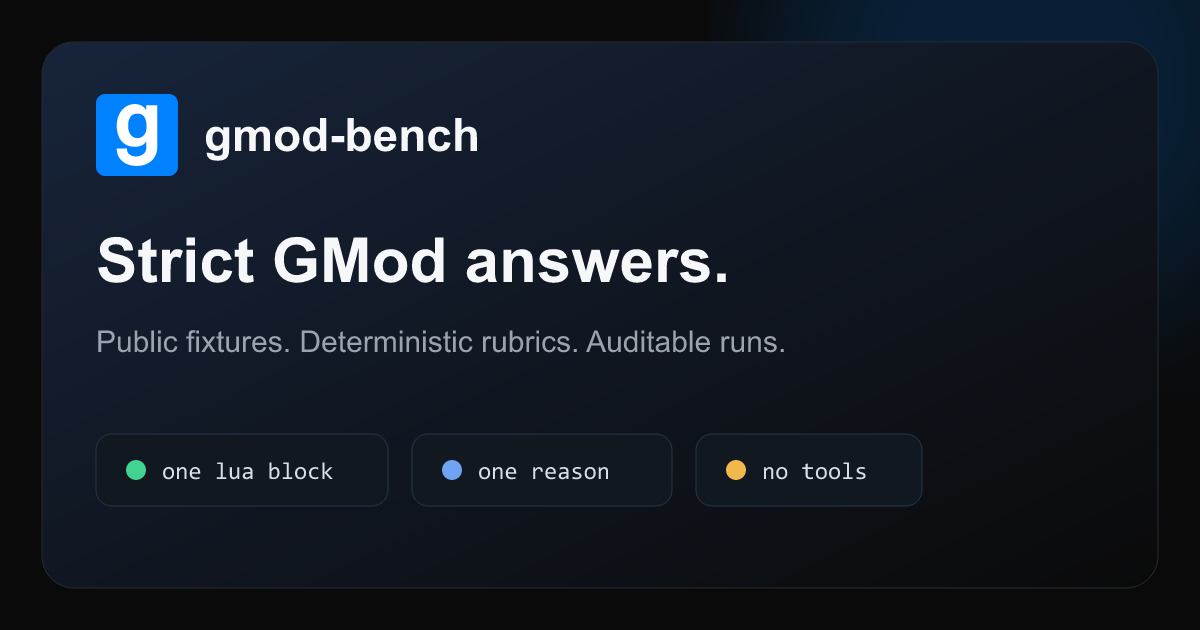
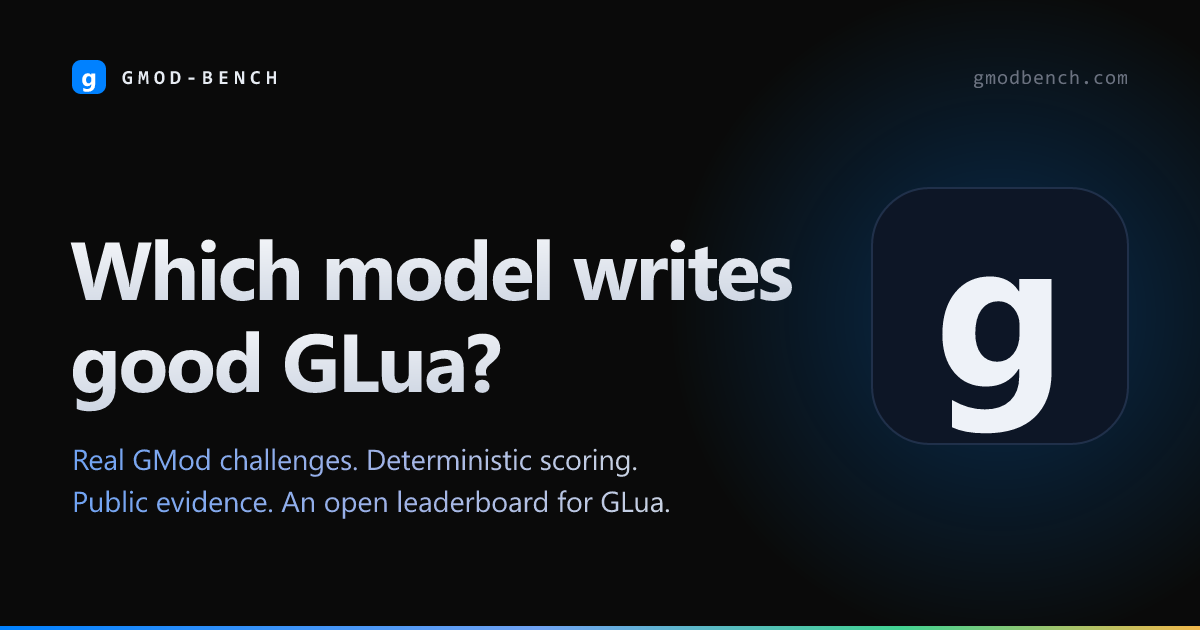
Redesign README hero + OG social card; drop off-brand slogan chips
- New README leaderboard hero (custom SVG -> crisp PNG) replacing the old card
- README: one functional badge row, real star/website CTAs, icons, tightened copy
- Rebuild OG social card in a minimal, mizan-style layout
- Remove the "one lua block / one reason / no tools" marketing chips everywhere

diff --git a/README.md b/README.md
@@ -1,49 +1,40 @@
 <div align="center">
 
-<img src="website/public/gmod-logo.svg" alt="gmod-bench" width="96" height="96" />
-
-# gmod-bench
-
-### Find the best AI models for Garry's Mod development
-
-Open coding challenges · verified scores · public evidence
-
-<br />
-
-[![Website](https://img.shields.io/badge/🌐_Website-gmodbench.com-70a3f3?style=for-the-badge&labelColor=0a0a0a)](https://gmodbench.com)
-[![GitHub stars](https://img.shields.io/github/stars/Iydah/gmod-bench?style=for-the-badge&logo=github&logoColor=white&color=e8b84a&labelColor=0a0a0a)](https://github.com/Iydah/gmod-bench/stargazers)
-[![License: MIT](https://img.shields.io/badge/License-MIT-3ecf8e?style=for-the-badge&labelColor=0a0a0a)](LICENSE)
-[![Bun](https://img.shields.io/badge/Runtime-Bun-fbf0df?style=for-the-badge&logo=bun&logoColor=000&labelColor=0a0a0a)](https://bun.sh)
-[![TypeScript](https://img.shields.io/badge/TypeScript-3178C6?style=for-the-badge&logo=typescript&logoColor=white&labelColor=0a0a0a)](https://www.typescriptlang.org/)
-
-<br />
-
-[![⭐ Star this repo](https://img.shields.io/badge/⭐_Star_this_repo-if_you_ship_GMod-111111?style=for-the-badge&labelColor=e8b84a&color=111111)](https://github.com/Iydah/gmod-bench)
-&nbsp;
-[![Open leaderboard](https://img.shields.io/badge/Open_leaderboard-→-70a3f3?style=for-the-badge&labelColor=0a0a0a)](https://gmodbench.com)
-
-<br />
-
 <a href="https://gmodbench.com">
-  <img src="website/public/social-card.png" alt="gmod-bench — compare AI models for Garry's Mod" width="720" />
+  <img src="website/public/readme-hero.png" alt="gmod-bench — which AI model actually writes good GLua?" width="820" />
 </a>
 
+<h1>gmod-bench</h1>
+
+<p><strong>Find the best AI models for Garry's Mod development.</strong></p>
+
+<p>Open coding challenges&nbsp; ·&nbsp; deterministic scoring&nbsp; ·&nbsp; public evidence</p>
+
 <p>
-  <a href="https://gmodbench.com"><strong>gmodbench.com</strong></a>
-  ·
+  <a href="https://gmodbench.com"><img src="https://img.shields.io/badge/Live_at-gmodbench.com-0081ff?style=for-the-badge&logo=cloudflare&logoColor=white&labelColor=0a0a0a" alt="Live at gmodbench.com" /></a>
+  <a href="https://github.com/Iydah/gmod-bench/stargazers"><img src="https://img.shields.io/github/stars/Iydah/gmod-bench?style=for-the-badge&logo=github&logoColor=white&color=f2b84b&labelColor=0a0a0a" alt="GitHub stars" /></a>
+  <a href="LICENSE"><img src="https://img.shields.io/badge/License-MIT-42d392?style=for-the-badge&labelColor=0a0a0a" alt="License: MIT" /></a>
+  <a href="https://bun.sh"><img src="https://img.shields.io/badge/Bun-fbf0df?style=for-the-badge&logo=bun&logoColor=000&labelColor=0a0a0a" alt="Runtime: Bun" /></a>
+  <a href="https://www.typescriptlang.org/"><img src="https://img.shields.io/badge/TypeScript-70a3f3?style=for-the-badge&logo=typescript&logoColor=white&labelColor=0a0a0a" alt="TypeScript" /></a>
+</p>
+
+<p>
+  <a href="https://gmodbench.com"><b>🌐 gmodbench.com</b></a>
+  &nbsp;·&nbsp;
   <a href="https://gmodbench.com/leaderboard">Leaderboard</a>
-  ·
+  &nbsp;·&nbsp;
   <a href="https://gmodbench.com/runs">Runs</a>
-  ·
+  &nbsp;·&nbsp;
   <a href="https://gmodbench.com/methodology">Methodology</a>
-  ·
+  &nbsp;·&nbsp;
   <a href="https://gmodbench.com/docs">Docs</a>
 </p>
 
-<sub>
-  If this helps you pick a model for your next addon —
-  <a href="https://github.com/Iydah/gmod-bench/stargazers"><strong>a star means a lot ⭐</strong></a>
-</sub>
+<br />
+
+<a href="https://github.com/Iydah/gmod-bench/stargazers"><img src="https://img.shields.io/badge/⭐_Star_the_repo-if_it_helps_you_ship-0a0a0a?style=for-the-badge&labelColor=f2b84b" alt="Star the repo" /></a>
+&nbsp;
+<a href="https://gmodbench.com"><img src="https://img.shields.io/badge/Open_the_leaderboard-→-ffffff?style=for-the-badge&logo=rocket&logoColor=white&color=0081ff&labelColor=0a0a0a" alt="Open the leaderboard" /></a>
 
 </div>
 
@@ -51,41 +42,35 @@ Open coding challenges · verified scores · public evidence
 
 ## Why this exists
 
-GMod addon work is weird: realms, hooks, net messages, prediction, DarkRP quirks, hot-path HUD code. Generic model rankings don’t tell you **which model is actually good at GLua**.
+GMod addon work is its own dialect: realms, hooks, net messages, prediction, DarkRP quirks, hot-path HUD code. Generic model rankings don't tell you **which model is actually good at GLua**.
 
-**gmod-bench** runs models through real GMod coding challenges and scores them the same way every time — so you can answer:
+**gmod-bench** runs models through real GMod coding challenges and scores every answer the same way, every time — so you can answer the only question that matters:
 
-> *“Is this model better for my next addon?”*
+> _"Is this model better for my next addon?"_
 
-| What you get | Where |
-| --- | --- |
-| Live ranks | [gmodbench.com](https://gmodbench.com) |
-| Per-run evidence | [gmodbench.com/runs](https://gmodbench.com/runs) |
-| How scoring works | [gmodbench.com/methodology](https://gmodbench.com/methodology) |
-| This harness | clone · `bun install` · `bun run bench` |
+<table>
+<tr><td>🏆 &nbsp;<b>Live ranks</b></td><td><a href="https://gmodbench.com">gmodbench.com</a></td></tr>
+<tr><td>🔍 &nbsp;<b>Per-run evidence</b></td><td><a href="https://gmodbench.com/runs">gmodbench.com/runs</a></td></tr>
+<tr><td>📐 &nbsp;<b>How scoring works</b></td><td><a href="https://gmodbench.com/methodology">gmodbench.com/methodology</a></td></tr>
+<tr><td>⚙️ &nbsp;<b>This harness</b></td><td>clone · <code>bun install</code> · <code>bun run bench</code></td></tr>
+</table>
 
 Every prompt, scoring rule, model answer, and result is open for inspection.
 
 ---
 
-## Live site
+## 🌐 Live site — [gmodbench.com](https://gmodbench.com)
 
-<div align="center">
-
-### 🌐 [gmodbench.com](https://gmodbench.com)
-
-**Compare models · expand rows for evidence · open the runs that produced a rank**
+The leaderboard is live on Cloudflare. **Compare models, expand any row for the evidence, and open the exact runs that produced a rank.**
 
 | Surface | Link |
 | --- | --- |
-| Home & board | [gmodbench.com](https://gmodbench.com) |
+| Home & board | **[gmodbench.com](https://gmodbench.com)** |
 | Full leaderboard | [gmodbench.com/leaderboard](https://gmodbench.com/leaderboard) |
 | Published runs | [gmodbench.com/runs](https://gmodbench.com/runs) |
 | Scoring notes | [gmodbench.com/methodology](https://gmodbench.com/methodology) |
 
-</div>
-
-Models answer a **strict response format** so results stay comparable:
+Every model answers in one **strict response format**, so results stay comparable:
 
 ````text
 ```lua
@@ -118,7 +103,7 @@ The public suite covers three evidence classes:
 - **Micro-performance** — contract-equivalent choices with a measured or documented winner
 - **Production addon scenarios** — security, bounds, cleanup, network fanout, persistence, hot-path cost
 
-Performance answers are workload-specific. A one-off `ents.FindInSphere` and a per-tick query over addon-owned entities need different designs, so fixtures state frequency, ownership, bounds, and recipient scope when those facts change the correct answer. Unsafe or behavior-changing “faster” code cannot pass.
+Performance answers are workload-specific. A one-off `ents.FindInSphere` and a per-tick query over addon-owned entities need different designs, so fixtures state frequency, ownership, bounds, and recipient scope when those facts change the correct answer. Unsafe or behavior-changing "faster" code cannot pass.
 
 The benchmark does **not** execute generated GLua inside a live GMod server. Deterministic scorers validate the answer contract and fixture-specific rules. Read public results as strong regression / compliance evidence — not a guarantee that an arbitrary addon is production-safe.
 
@@ -241,10 +226,10 @@ bun run bench compare --run .gmod-bench/runs/<run-id> --model "Model A" --model 
 
 CLI support is **capability-probed at runtime**. An adapter is strict-scorable only when its installed help surface proves:
 
-1. one-shot, non-interactive execution  
-2. native denial of web / browser / file / shell / MCP tools  
-3. structured events with exactly one final response  
-4. a reviewed parser that fails closed on unknown shapes  
+1. one-shot, non-interactive execution
+2. native denial of web / browser / file / shell / MCP tools
+3. structured events with exactly one final response
+4. a reviewed parser that fails closed on unknown shapes
 
 ```sh
 bun run bench doctor
@@ -274,7 +259,7 @@ Provider calls can cost money. `doctor`, `list`, tests, typecheck, lint, report,
 
 ### Free-model quarantine
 
-Dead free endpoints that return empty answers get temporarily quarantined so they don’t burn the suite RPM budget:
+Dead free endpoints that return empty answers get temporarily quarantined so they don't burn the suite RPM budget:
 
 ```sh
 bun run bench quarantine
@@ -288,7 +273,7 @@ Disable models permanently via `runners.openrouter.disabledModels` in `gmod-benc
 
 ## Methodology
 
-Every scored attempt: **one final response, no tools**.
+Every scored attempt: **one final response, no tools.**
 
 ````text
 ```lua
@@ -297,10 +282,10 @@ Every scored attempt: **one final response, no tools**.
 Reason: <one line>
 ````
 
-- CLI attempts run in a fresh empty workspace with isolated profile/temp dirs  
-- Tool events, multiple finals, unknown traces, deadlines, output-cap breaches → non-scored (not “wrong GMod”)  
-- HTTP attempts are answer-only; `tool_calls` → `policy_violation`  
-- Prompts, rubrics, and provenance stay public; fixture IDs + rubric versions + prompt hashes keep old and new evidence distinct  
+- CLI attempts run in a fresh empty workspace with isolated profile/temp dirs
+- Tool events, multiple finals, unknown traces, deadlines, output-cap breaches → non-scored (not "wrong GMod")
+- HTTP attempts are answer-only; `tool_calls` → `policy_violation`
+- Prompts, rubrics, and provenance stay public; fixture IDs + rubric versions + prompt hashes keep old and new evidence distinct
 
 More detail: [gmodbench.com/methodology](https://gmodbench.com/methodology)
 
@@ -319,7 +304,7 @@ Fixtures live at `fixtures/<fixture-id>/fixture.json` — prompt, provenance, co
 | `regex` | Unambiguous API / code shape (fenced body only) |
 | `plugin` | Semantic rules in `src/scoring/` |
 
-The suite includes Facepunch-wiki-backed API questions and performance fixtures only where the workload has a clear contract-equivalent winner. Ties, folklore, and unsafe “faster” answers are omitted.
+The suite includes Facepunch-wiki-backed API questions and performance fixtures only where the workload has a clear contract-equivalent winner. Ties, folklore, and unsafe "faster" answers are omitted.
 
 See [CONTRIBUTING.md](CONTRIBUTING.md) for evidence, versioning, scorer, test, and adapter requirements.
 
@@ -336,7 +321,7 @@ Finished runs: `.gmod-bench/runs/<run-id>/`
 | `leaderboard.json` | Per-model scores for that run |
 | `attempts.jsonl` | One row per attempt |
 
-Public pages on **[gmodbench.com](https://gmodbench.com)** are built from these runs so you can open a model’s answers and see **why** it ranked where it did.
+Public pages on **[gmodbench.com](https://gmodbench.com)** are built from these runs so you can open a model's answers and see **why** it ranked where it did.
 
 ```sh
 bun run bench verify --all
@@ -360,16 +345,14 @@ Tests and CI do not call model providers.
 
 <div align="center">
 
-### Built for GMod people who want a real answer
+### Built for GMod people who want a real answer.
 
-**Live board → [gmodbench.com](https://gmodbench.com)**
-
-[![⭐ Star on GitHub](https://img.shields.io/github/stars/Iydah/gmod-bench?style=for-the-badge&logo=github&logoColor=white&color=e8b84a&labelColor=111111&label=star)](https://github.com/Iydah/gmod-bench)
+<a href="https://gmodbench.com"><img src="https://img.shields.io/badge/▶_Live_board-gmodbench.com-0081ff?style=for-the-badge&labelColor=0a0a0a" alt="Live board" /></a>
 &nbsp;
-[![Visit website](https://img.shields.io/badge/visit-gmodbench.com-70a3f3?style=for-the-badge&labelColor=0a0a0a)](https://gmodbench.com)
-
-<br />
+<a href="https://github.com/Iydah/gmod-bench/stargazers"><img src="https://img.shields.io/github/stars/Iydah/gmod-bench?style=for-the-badge&logo=github&logoColor=white&color=f2b84b&labelColor=0a0a0a&label=Star" alt="Star on GitHub" /></a>
 
 <sub>MIT · open evidence · no vibes-only ranking</sub>
+
+<sub>If this helped you pick a model for your next addon, <a href="https://github.com/Iydah/gmod-bench/stargazers"><b>a star means a lot ⭐</b></a></sub>
 
 </div>